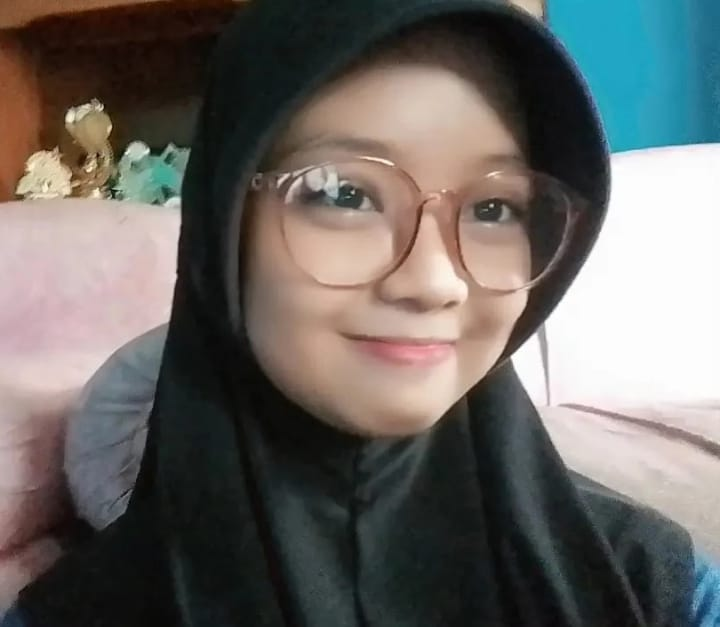
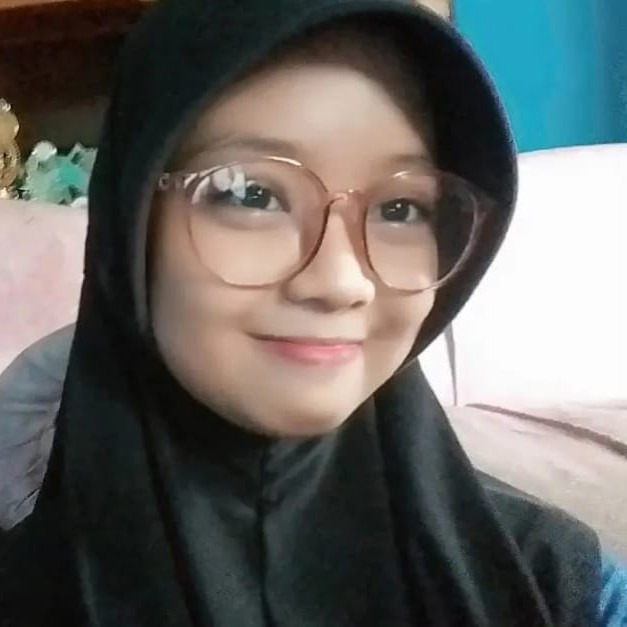
feat: pindahkan isi beranda portofolio ke next.js

diff --git a/src/app/page.js b/src/app/page.js
@@ -1,4 +1,5 @@
 import Hero from "@/components/Hero";
+import Kartu from "@/components/Kartu";
 import SkillCard from "@/components/SkillCard";
 
 const skills = [
@@ -9,22 +10,83 @@ const skills = [
   { nama: "JavaScript", level: "Dasar" },
 ];
 
+const jadwalBelajar = [
+  { hari: "Rabu", waktu: "19.00 - 20.00", kegiatan: "Membaca ulang modul" },
+  { hari: "Sabtu", waktu: "16.00 - 21.00", kegiatan: "Mengerjakan tugas praktikum" },
+  { hari: "Minggu", waktu: "19.30 - 20.30", kegiatan: "Menonton video dan menulis laporan" },
+];
+
 export default function Home() {
   return (
-    <main className="mx-auto max-w-5xl px-4 py-10">
-      <Hero 
+    <main className="mx-auto max-w-5xl space-y-8 px-4 py-10">
+      {/* Bagian Atas (Foto & Nama) */}
+      <Hero
         nama="Ajeng Candra Lokasari"
         tagline="Siswa kelas XI PPLG, calon Junior Web Developer di Kelas Industri UBIG."
       />
 
-      <section className="mt-10">
-        <h2 className="mb-4 text-2xl font-bold text-utama">Keahlian</h2>
+      {/* Bagian Tentang Saya */}
+      <Kartu judul="Tentang Saya">
+        <p className="leading-relaxed text-gray-700">
+          Saya siswa kelas XI jurusan PPLG yang senang mencoba hal baru di dunia teknologi dan desain. 
+          Saya ingin bisa membuat website yang rapi dan bermanfaat untuk sekolah maupun masyarakat sekitar.
+        </p>
+      </Kartu>
+
+      {/* Bagian Hobi & Cita-cita (2 Kolom Berdampingan) */}
+      <div className="grid gap-6 md:grid-cols-2">
+        <Kartu judul="Hobi">
+          <ul className="list-disc space-y-1 pl-5 text-gray-700">
+            <li>Mendesain poster dengan Canva</li>
+            <li>Belajar pemrograman web</li>
+            <li>Mendengarkan musik</li>
+          </ul>
+        </Kartu>
+
+        <Kartu judul="Cita-cita">
+          <p className="mb-3 text-gray-700">
+            Menjadi orang sukses yang bermanfaat dan membawa dampak positif bagi sesama. Langkah yang saya lakukan:
+          </p>
+          <ol className="list-decimal space-y-1 pl-5 text-gray-700">
+            <li>Tekun belajar dan mengasah skill pemrograman</li>
+            <li>Menjalani Kelas Industri UBIG dengan maksimal</li>
+            <li>Konsisten membuat proyek web yang berguna</li>
+          </ol>
+        </Kartu>
+      </div>
+
+      {/* Bagian Keahlian */}
+      <Kartu judul="Keahlian">
         <div className="grid gap-4 md:grid-cols-3">
           {skills.map((skill) => (
             <SkillCard key={skill.nama} nama={skill.nama} level={skill.level} />
           ))}
         </div>
-      </section>
+      </Kartu>
+
+      {/* Bagian Jadwal Belajar (Tabel) */}
+      <Kartu judul="Jadwal Belajar">
+        <div className="overflow-x-auto">
+          <table className="w-full border-collapse text-left text-sm text-gray-700">
+            <thead>
+              <tr className="bg-utama text-white">
+                <th className="p-3">Hari</th>
+                <th className="p-3">Waktu</th>
+                <th className="p-3">Kegiatan</th>
+              </tr>
+            </thead>
+            <tbody>
+              {jadwalBelajar.map((item, index) => (
+                <tr key={index} className="border-b border-gray-200 hover:bg-gray-50">
+                  <td className="p-3 font-medium">{item.hari}</td>
+                  <td className="p-3">{item.waktu}</td>
+                  <td className="p-3">{item.kegiatan}</td>
+                </tr>
+              ))}
+            </tbody>
+          </table>
+        </div>
+      </Kartu>
     </main>
   );
 }

diff --git a/src/app/layout.js b/src/app/layout.js
@@ -1,5 +1,6 @@
 import { Geist, Geist_Mono } from "next/font/google";
 import "./globals.css";
+import Footer from "@/components/Footer";
 
 const geistSans = Geist({
   variable: "--font-geist-sans",
@@ -22,7 +23,12 @@ export default function RootLayout({ children }) {
       lang="id"
       className={`${geistSans.variable} ${geistMono.variable} h-full antialiased`}
     >
-      <body className="min-h-full flex flex-col bg-latar text-gray-800">{children}</body>
+      <body className="flex min-h-full flex-col bg-latar text-gray-800">
+        <div className="flex-grow">
+          {children}
+        </div>
+        <Footer />
+      </body>
     </html>
   );
 }

diff --git a/src/components/Hero.jsx b/src/components/Hero.jsx
@@ -9,7 +9,7 @@ export default function Hero({ nama, tagline }) {
         width={180}
         height={180}
         loading="eager"
-        className="rounded-full border-4 border-aksen"
+        className="rounded-full border-4 border-aksen object-cover w-[180px] h-[180px]"
       />
       <div>
         <h1 className="text-3xl font-bold text-utama md:text-5xl">Halo, saya {nama}!</h1>

diff --git a/src/components/Footer.jsx b/src/components/Footer.jsx
@@ -1,0 +1,7 @@
+export default function Footer() {
+  return (
+    <footer className="mt-auto bg-utama py-6 text-center text-sm text-white">
+      <p>&copy; {new Date().getFullYear()} Ajeng Candra Lokasari. Dibuat dengan Next.js di Kelas Industri UBIG.</p>
+    </footer>
+  );
+}

diff --git a/src/components/Kartu.jsx b/src/components/Kartu.jsx
@@ -1,0 +1,10 @@
+export default function Kartu({ judul, children }) {
+return (
+<section className="rounded-xl border border-gray-200 bg-white
+p-6 shadow-sm">
+<h2 className="mb-3 text-2xl font-bold
+text-utama">{judul}</h2>
+{children}
+</section>
+);
+}
